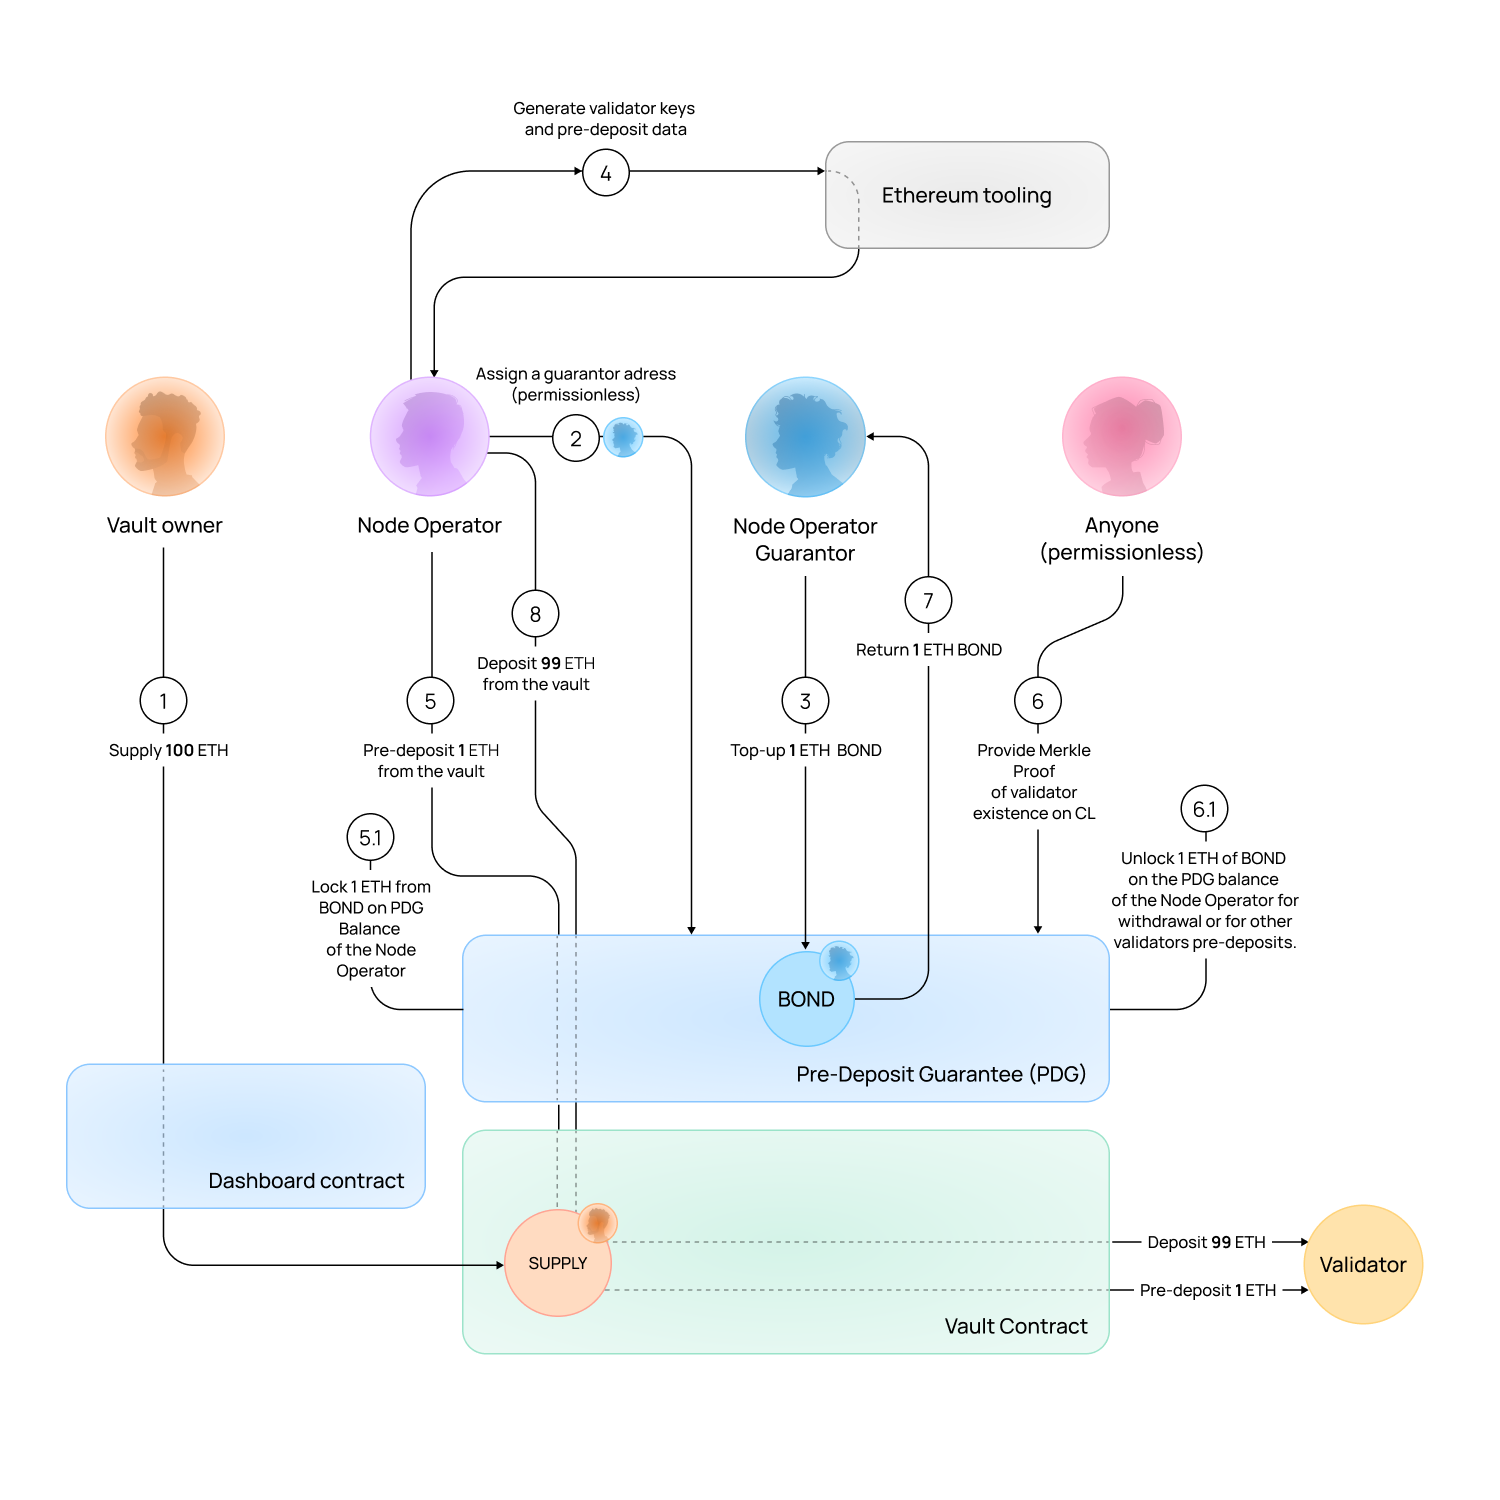
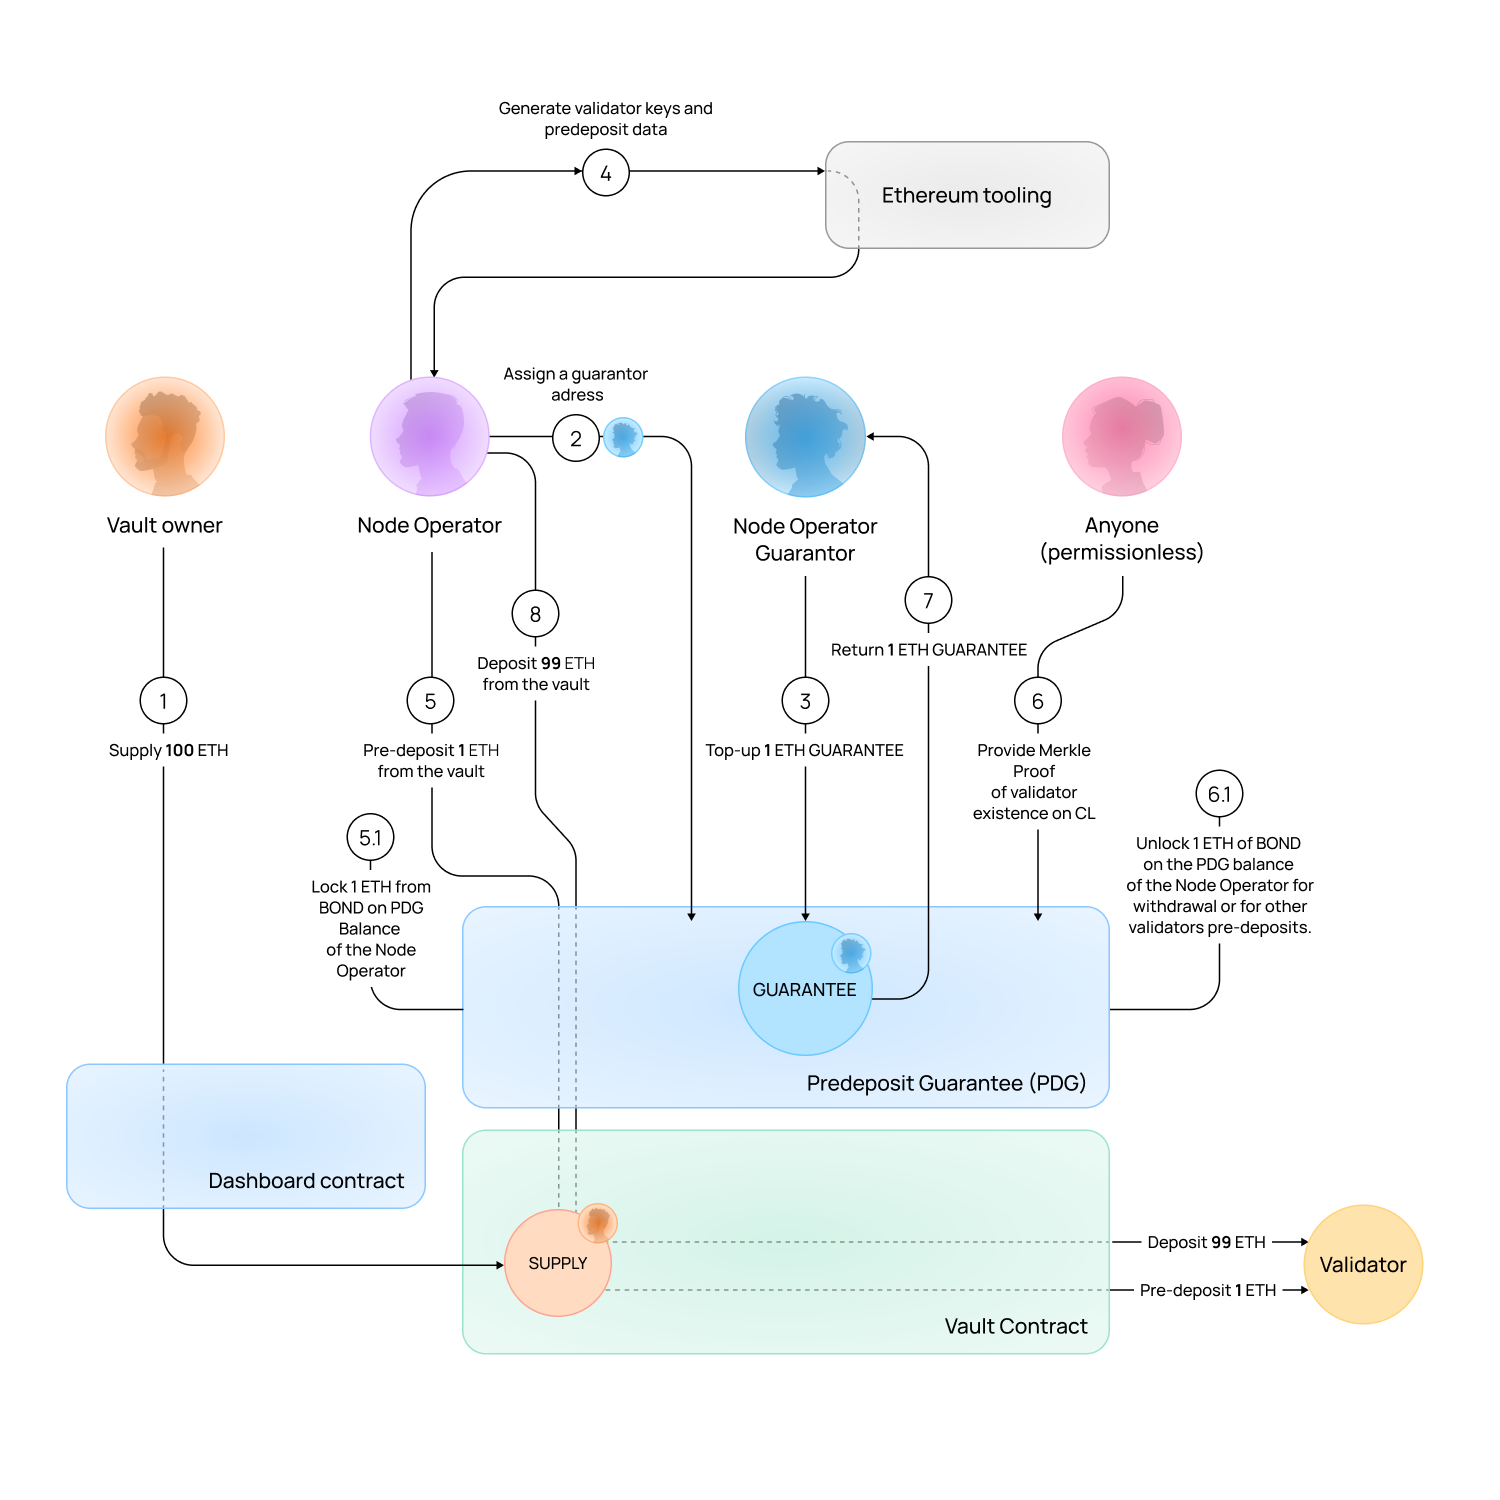
fix: review fixes

diff --git a/docs/guides/stvaults/pdg.md b/docs/guides/stvaults/pdg.md
@@ -1,13 +1,14 @@
-# Pre-deposit Guarantee
+# Predeposit Guarantee
 
-This user guide explains how to use the Pre-deposit Guarantee contract as part of the stVaults staking infrastructure.
+This user guide explains how to use the Predeposit Guarantee contract as part of the stVaults staking infrastructure.
 
-The Pre-deposit Guarantee (PDG) contract mitigates deposit frontrunning vulnerabilities outlined in [LIP-5](https://github.com/lidofinance/lido-improvement-proposals/blob/develop/LIPS/lip-5.md). It employs Merkle proof based mechanism distinct from the [Deposit Security Module](https://docs.lido.fi/contracts/deposit-security-module) used by Lido Core.
+The Predeposit Guarantee (PDG) contract mitigates deposit frontrunning vulnerabilities outlined in [LIP-5](https://github.com/lidofinance/lido-improvement-proposals/blob/develop/LIPS/lip-5.md). It employs Merkle proof based mechanism distinct from the [Deposit Security Module](https://docs.lido.fi/contracts/deposit-security-module) used by Lido Core.
 
 The PDG enables Node Operators to deposit validators using vault funds in a trustless manner.
 
 :::info
 stVaults are using [`0x02-type`](https://eips.ethereum.org/EIPS/eip-7251) withdrawal credentials for deposits.
+Therefore stVaults can utilize large validators (depositing up to 2048 ETH per a single validator not losing efficiency).
 :::
 
 ## Resources
@@ -27,26 +28,26 @@ One of its key advantages is the **separation of ether funds** between the vault
 
 Steps:
 
-1. The stVault's owner supplies 32 ETH to the vault.
+1. The stVault's owner supplies 100 ETH to the vault.
 Method called: `Dashboard.fund()` with ETH transfer (`payable`).
 2. The Node Operator *optionally* assigns a guarantor address that will further provide a 1 ETH guarantee. *(This guarantor can be the Node Operator, Vault Owner, or a third party.)*
 Method called: `PredepositGuarantee.setNodeOperatorGuarantor(newGuarantor)`.
-3. The Node Operator’s guarantor tops up 1 ETH to the PDG contract, specifying the Node Operator’s address. This serves as the pre-deposit guarantee collateral.
+3. The Node Operator’s guarantor tops up 1 ETH to the PDG contract, specifying the Node Operator’s address. This serves as the predeposit guarantee collateral.
 Method called: `PredepositGuarantee.topUpNodeOperatorBalance(nodeOperator)` with ETH transfer.
-4. The Node Operator generates validator keys and pre-deposit data.
-5. The Node Operator pre-deposits 1 ETH from the vault balance to the validator via the PDG contract.
+4. The Node Operator generates validator keys and predeposit data.
+5. The Node Operator predeposits 1 ETH from the vault balance to the validator via the PDG contract.
 Method called: `PredepositGuarantee.predeposit(stakingVault, deposits, depositsY)`, same time the PDG locks 1 ETH from the Node Operator’s guarantee collateral in the PDG.
 6. Anyone (permissionless) submits a Merkle proof of the validator’s appearing on the Consensus Layer to the PDG contract with the withdrawal credentials corresponding to the stVault's address.
 Method called: `PredepositGuarantee.proveValidatorWC(witness)`.
-6.1. Upon successful verification, 1 ETH of the Node Operator’s guarantee collateral is unlocked from the  PDG balance — making it available for withdrawal or reuse for the next validator pre-deposit.
+6.1. Upon successful verification, 1 ETH of the Node Operator’s guarantee collateral is unlocked from the  PDG balance — making it available for withdrawal or reuse for the next validator predeposit.
 7. The Node Operator’s guarantor withdraws the 1 ETH from the PDG contract or retains it for reuse with future validators.
 Method called: `PredepositGuarantee.withdrawNodeOperatorBalance(nodeOperator, amount, recipient)`.
-8. The Node Operator makes a top-up deposit of the remaining 31+ ETH from the vault balance to the validator through the PDG.
+8. The Node Operator makes a top-up deposit of the remaining 99 ETH from the vault balance to the validator through the PDG.
 Method called: `PredepositGuarantee.depositToBeaconChain(stakingVault, deposits)`.
 
 ### PDG shortcut
 
-This mechanism allows one to bypass the pre-deposit process, enabling a direct deposit to the validator without using PDG initially.
+This mechanism allows one to bypass the predeposit process, enabling a direct deposit to the validator without using PDG initially.
 
 The validator can then be linked to the vault retroactively by submitting proof through the PDG contract.
 
@@ -58,8 +59,8 @@ Steps:
 
 1. The stVault's owner supplies 100 ETH to the vault.
 Method called: `Dashboard.fund()` with ETH transfer (`payable`).
-2. The Node Operator generates validator keys and pre-deposit data.
-3. The Node Operator shares the validator keys and pre-deposit data with the stVault's owner.
+2. The Node Operator generates validator keys and predeposit data.
+3. The Node Operator shares the validator keys and predeposit data with the stVault's owner.
 4. The stVault's owner deposits 1 ETH from the vault balance directly to the validator, bypassing the PDG. Method called: `Dashboard.unguaranteedDepositToBeaconChain(deposits)`.
 4.1. As a result, the stVault’s total value is temporarily reduced by 1 ETH until the next oracle report delivered containing the appeared validator's balance.
 5. The stVault's owner submits a Merkle proof of the validator’s appearing on the Consensus Layer to the `Dashboard` contract. Method called: `Dashboard.proveUnknownValidatorsToPDG(witness)`.

diff --git a/docs/guides/stvaults/index.md b/docs/guides/stvaults/index.md
@@ -14,7 +14,7 @@ stVaults consist of the following components:
 - **CLI (Command Line Interface)**: A command-line tool interacting directly with the `Dashboard` contract and other stVaults-related contracts offering advanced management capabilities (deposits, generating proofs, per-vault oracle reports, etc.). ([GitHub Repository](https://github.com/lidofinance/lido-staking-vault-cli), [Documentation](https://lidofinance.github.io/lido-staking-vault-cli/))
 - **Dashboard contract**: A management contract deployed together with the `StakingVault` Contract, and is assigned as the owner of the `StakingVault` Contract by default. It provides granular management capabilities and introduces roles and permissions, allowing different actions to be managed by distinct roles. It also provides utility functions for minting/burning, performing deposits, collecting node operator fees.
 - **StakingVault Contract**: The core primitive contract representing the staking vault. Advanced use cases might include direct interaction with the `StakingVault` Contract, which requires transferring ownership from the `Dashboard` contract.
-- **Pre-deposit Guarantee (PDG)**: The contract that mitigates deposit frontrunning vulnerabilities described in [LIP-5](https://github.com/lidofinance/lido-improvement-proposals/blob/develop/LIPS/lip-5.md). It uses a mechanism distinct from the [Deposit Security Module](https://docs.lido.fi/contracts/deposit-security-module) adopted by **Lido Core**. It allows stVault's owner and Node Operators to deposit validators with the vault's funds in trustless manner.
+- **Predeposit Guarantee (PDG)**: The contract that mitigates deposit frontrunning vulnerabilities described in [LIP-5](https://github.com/lidofinance/lido-improvement-proposals/blob/develop/LIPS/lip-5.md). It uses a mechanism distinct from the [Deposit Security Module](https://docs.lido.fi/contracts/deposit-security-module) adopted by **Lido Core**. It allows stVault's owner and Node Operators to deposit validators with the vault's funds in trustless manner.
 - **Off-chain monitoring tools (can be used by the Node Operator):**
   - **Ethereum Validators Monitoring (EVM)**: Consensus layer validators monitoring bot, that fetches Lido or Custom Users Node Operators keys from Execution layer and checks their performance in Consensus layer by: balance delta, attestations, proposes, sync committee participation.
   - **Ethereum Head Watcher**: Bot which watches Ethereum head block and handle validator-related "events" and sends notifications through Alertmanager to Discord channel.
@@ -56,7 +56,7 @@ stVaults consist of the following components:
 **Use case examples**:
 
 - Institutional integrator requiring automated and scriptable staking management.
-- Node Operator using the CLI to initiate staking operations and monitor staking performance, as well as pre-deposit, prove and top-up deposit validators via PDG.
+- Node Operator using the CLI to initiate staking operations and monitor staking performance, as well as predeposit, prove and top-up deposit validators via PDG.
 - Protocols integrating with stVaults and run in the integration on testnet.
 
 ### Dashboard contract
@@ -98,7 +98,7 @@ stVaults consist of the following components:
 - Institutional users with a dedicated infrastructure for contract interaction who require maximum control over staking operations.
 - Structured product integrating `StakingVault` directly to reduce operations gas costs and use own infrastructure.
 
-### Pre-deposit Guarantee (PDG)
+### Predeposit Guarantee (PDG)
 
 **URL**: [Technical details](https://hackmd.io/@lido/stVaults-design?stext=5138%3A160%3A0%3A1744277214%3A66cxZj); [GitHub Repository](https://github.com/lidofinance/core/blob/feat/vaults/contracts/0.8.25/vaults/predeposit_guarantee/PredepositGuarantee.sol), [PDG user guide](./pdg)
 
@@ -107,7 +107,7 @@ stVaults consist of the following components:
 **How to use:**
 
 1. Create and configure a vault through any convenient interface (contracts, CLI, or UI).
-2. Pre-deposit guarantee contract enables three main use cases:
+2. Predeposit guarantee contract enables three main use cases:
     1. Full-cycle proof of validators through PDG to enable non-custodial depositing mechanism, using the guarantee ether as a collateral ([read more](./pdg.md#full-cycle-trustless-path-through-pdg)).
     2. PDG shortcut that allows to skip the predepositing steps and deposit directly to validator without using of PDG, later on associating the validator with the vault by proving it through PDG. Applicable in unconditional trust between the node operator and the vault owner ([read more](./pdg.md#pdg-shortcut)).
     3. Adding existing validator to Vault from external staking infrastructure as an advanced integration use-case.

diff --git a/docs/deployed-contracts/hoodi-lidov3.md b/docs/deployed-contracts/hoodi-lidov3.md
@@ -15,7 +15,7 @@ If you are looking for mainnet Lido V3 addresses – hang tight, they are not li
 
 - 🏗 [Technical design doc](https://hackmd.io/@lido/stVaults-design)
 - 🔌 [stVaults integration guide](/guides/stvaults)
-- 🛡 [stVaults Pre-deposit Guarantee (PDG) guide](/guides/stvaults/pdg)
+- 🛡 [stVaults Predeposit Guarantee (PDG) guide](/guides/stvaults/pdg)
 - ⚓ [stVaults deployment tag: **`v3.0.0-alpha`**](https://github.com/lidofinance/core/releases/tag/v3.0.0-alpha)
 
 ---
